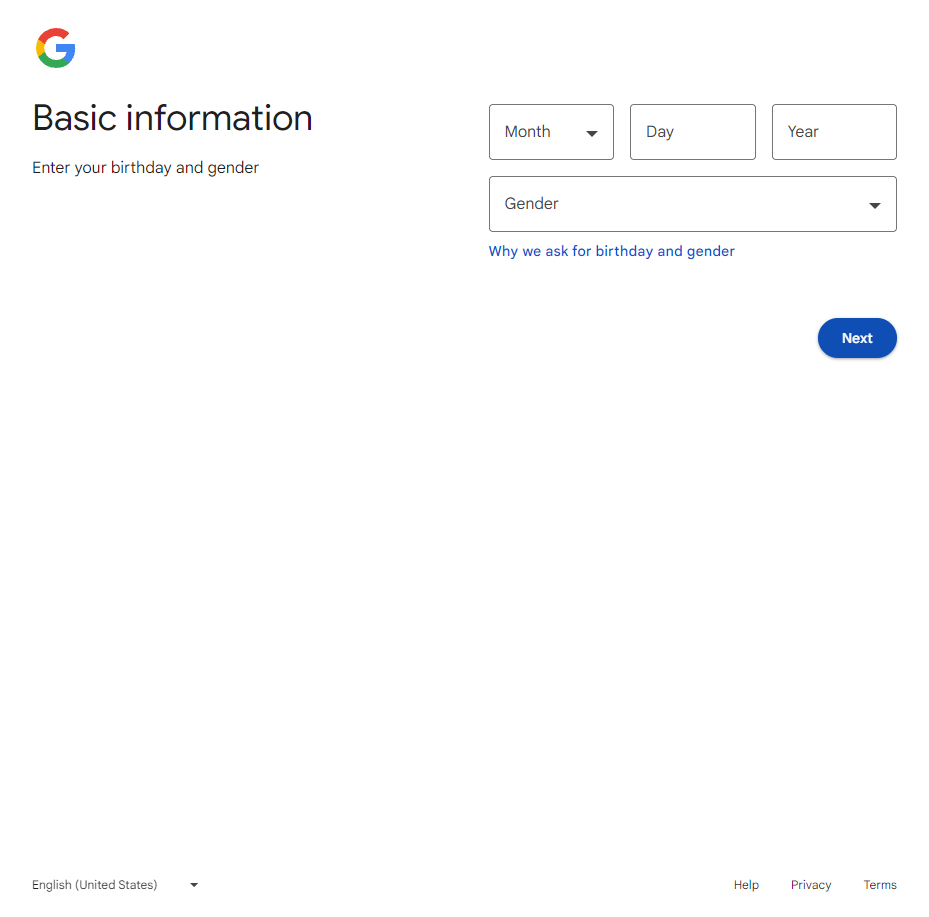
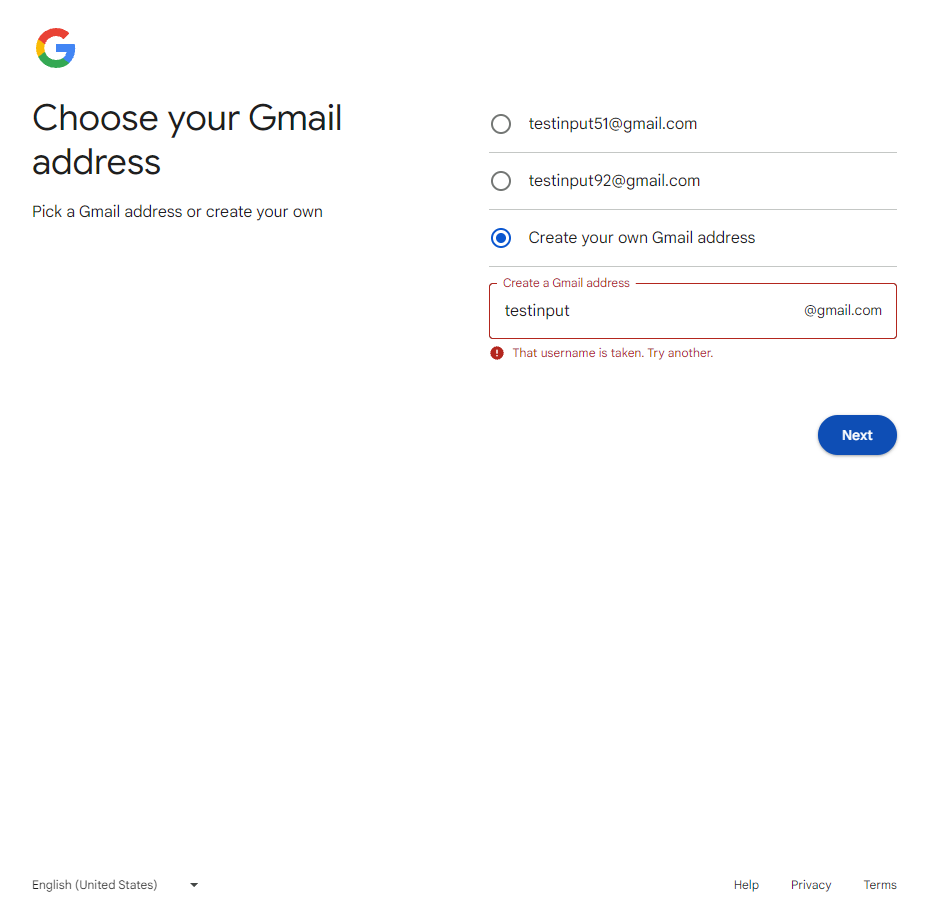
:rocket: update reg email

diff --git a/automation/autoReg/services/email.js b/automation/autoReg/services/email.js
@@ -5,62 +5,65 @@ const StealthPlugin = require('puppeteer-extra-plugin-stealth')
 
 class email extends auto {
     constructor(name, url) {
-        console.log('from email', url);
         super(name, url)
+    }
+    async waitElement() {
+        const ele = await this.page.focus('input#lastName');
+        if (ele) {
+            return ele;
+        } else {
+            this.waitElement();
+        }
     }
     async start() {
         // await this.init();
-        await this.getNetWorkSpeed();
         console.log('start email');
-
-        console.log({ duration: this.duration, bitsLoaded: this.bitsLoaded, speedBps: this.speedBps, speedKbps: this.speedKbps, speedMbps: this.speedMbps });
-
-
-        const page = await this.browser.newPage()
+        // const page = await this.browser.newPage()
         // await page.setViewport({ width: 100, height: 100 })
-
-        await page.goto(this.URL)
+        await this.page.goto(this.URL)
         //select option open account
-        await page.click('#m2 > div > div > div._column_vqvmf_125._content_djoel_40._fixedRightPadding_djoel_91 > div._container_b2skv_227._body_b2skv_2._lg_b2skv_29._body_djoel_100 > div > gws-dropdown-button');
-        await page.click('#m2 > div > div > div._column_vqvmf_125._content_djoel_40._fixedRightPadding_djoel_91 > div._container_b2skv_227._body_b2skv_2._lg_b2skv_29._body_djoel_100 > div > gws-dropdown-button > a:nth-child(3)');
+        await this.page.click('#m2 > div > div > div._column_vqvmf_125._content_djoel_40._fixedRightPadding_djoel_91 > div._container_b2skv_227._body_b2skv_2._lg_b2skv_29._body_djoel_100 > div > gws-dropdown-button');
+        await this.page.click('#m2 > div > div > div._column_vqvmf_125._content_djoel_40._fixedRightPadding_djoel_91 > div._container_b2skv_227._body_b2skv_2._lg_b2skv_29._body_djoel_100 > div > gws-dropdown-button > a:nth-child(3)');
         //fill name 
-        await page.waitForNavigation({ waitUntil: 'networkidle0' });
-        await page.type('input#firstName', 'test input');
-        await page.click('#collectNameNext > div > button');
-
-        // await (async () => {
-        //     try {
-        //         const checkDom = setInterval(() => {
-        //             const test = page.$('#day');
-        //             if (test) {
-        //                 console.log('tim thay');
-        //                 clearInterval(checkDom);
-        //                 return Promise.resolve()
-        //             }
-        //         }, 1000);
-        //     } catch (error) {
-        //         console.log('khong tim thay');
-        //     }
-        // })()
-        await this.delay(5000)
-        // await page.waitForNavigation({ timeout: 'networkidle2' });
+        await this.page.waitForNavigation({ waitUntil: 'networkidle0' });
+        await this.page.type('input#firstName', 'test input');
+        await this.page.click('#collectNameNext > div > button');
+        //fill birthday
+        await this.page.waitForSelector('input#day', { visible: true });
+        await this.delay(2000);
+        await this.page.type('input#day', '29');
+        await this.page.select('#month', '3');
+        await this.page.type('input#year', '1999');
+        await this.page.select('#gender', '1');
+        await this.delay(1000);
+        await this.page.click('#birthdaygenderNext > div > button');
+        //fill username
+        await this.page.waitForSelector('#yDmH0d > c-wiz > div > div.UXFQgc > div > div > div > form > span > section > div > div > div.myYH1.v5IR3e.V9RXW > div.Hy62Fc > div > span > div:nth-child(3)', { visible: true });
+        await this.delay(1000);
+        await this.page.click('#yDmH0d > c-wiz > div > div.UXFQgc > div > div > div > form > span > section > div > div > div.myYH1.v5IR3e.V9RXW > div.Hy62Fc > div > span > div:nth-child(3)');
+        await this.delay(1000);
+        await this.page.type('#yDmH0d > c-wiz > div > div.UXFQgc > div > div > div > form > span > section > div > div > div.BvCjxe > div.AFTWye > div > div.aCsJod.oJeWuf > div > div.Xb9hP > input', 'testinput');
+        await this.delay(1000);
+        await this.page.click('#next > div > button')
+        await this.delay(1000);
+        const isErrorUserName = await this.page.focus('#yDmH0d > c-wiz > div > div.UXFQgc > div > div > div > form > span > section > div > div > div.BvCjxe > div.AFTWye > div > div.LXRPh > div.dEOOab.RxsGPe > div');
+        await this.delay(1000);
+        // await this.page.type('input#username', 'testinput');
+        // this.delay(1000);
+        // await page.waitForNetworkIdle({ concurrency: 0, idleTime: 3000 });
+        // await this.waitElement();
         // await page.type('input#day', '20');
         // await page.waitForTimeout(2000)
-        await page.screenshot({ path: `${this.name}.png`, fullPage: true })
+        await this.page.screenshot({ path: `${this.name}.png`, fullPage: true })
 
         // console.log(`Testing the stealth plugin..`)
         // await page.goto('https://bot.sannysoft.com')
         // await page.waitForTimeout(5000)
         // await page.screenshot({ path: 'stealth.png', fullPage: true })
 
-        // console.log(`All done, check the screenshots. ✨`)
-        // await this.browser.close()
+        console.log(`All done, check the screenshots. ✨`)
+        await this.browser.close()
     }
 }
 
 const test = new email('name', 'https://www.google.com/intl/vi/gmail/about/');
-(async () => {
-    // await test.init();
-    // test.start();
-    // test.getNetWorkSpeed()
-})()

diff --git a/automation/autoReg/services/auto.js b/automation/autoReg/services/auto.js
@@ -6,6 +6,7 @@ const StealthPlugin = require('puppeteer-extra-plugin-stealth')
 
 module.exports = class auto {
     browser;
+    page;
     URL = "https://www.google.com";
     name = '';
     global = '';
@@ -26,6 +27,7 @@ module.exports = class auto {
         puppeteer.use(AdblockerPlugin({ blockTrackers: true }))
         const browser = await puppeteer.launch({ headless: false }).then(async browser => {
             this.browser = browser;
+            this.page = await this.browser.newPage()
             this.start();
         })
     }
